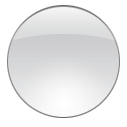
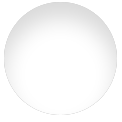
Updated Core with update-to-date images for iOS 8 and later. Added @3x images. Updated DTLoupeView.m to accommodate the updated images. Updated Demo to use a Launch Screen storyboard.

diff --git a/Core/Source/DTLoupeView.m b/Core/Source/DTLoupeView.m
@@ -134,7 +134,7 @@ NSString * const DTLoupeDidHide = @"DTLoupeDidHide";
 		
 		// maks for the loupe contents layer
 		_loupeContentsMaskLayer = [CALayer layer];
-		_loupeContentsMaskLayer.transform = CATransform3DMakeScale(1.0f, -1.0f, 1.0f);
+		_loupeContentsMaskLayer.transform = CATransform3DMakeScale(1.0f, 1.0f, 1.0f); // RWM
 		_loupeContentsMaskLayer.contentsScale = scale;
 		
 		// layer with contents of the loupe
@@ -197,7 +197,7 @@ CGAffineTransform CGAffineTransformAndScaleMake(CGFloat sx, CGFloat sy, CGFloat 
 	switch (style)
 	{
 		case DTLoupeStyleCircle:
-			return CGPointMake(0, -60.0);
+			return CGPointMake(0, -64.0);
 			
 		case DTLoupeStyleRectangle:
 			return CGPointMake(0, -30.0);
@@ -216,7 +216,7 @@ CGAffineTransform CGAffineTransformAndScaleMake(CGFloat sx, CGFloat sy, CGFloat 
 	{
 		case DTLoupeStyleCircle:
 		{
-			return CGPointMake(0, -4.0);
+			return CGPointMake(0, 0.0);
 		}
 		case DTLoupeStyleRectangle:
 		{
